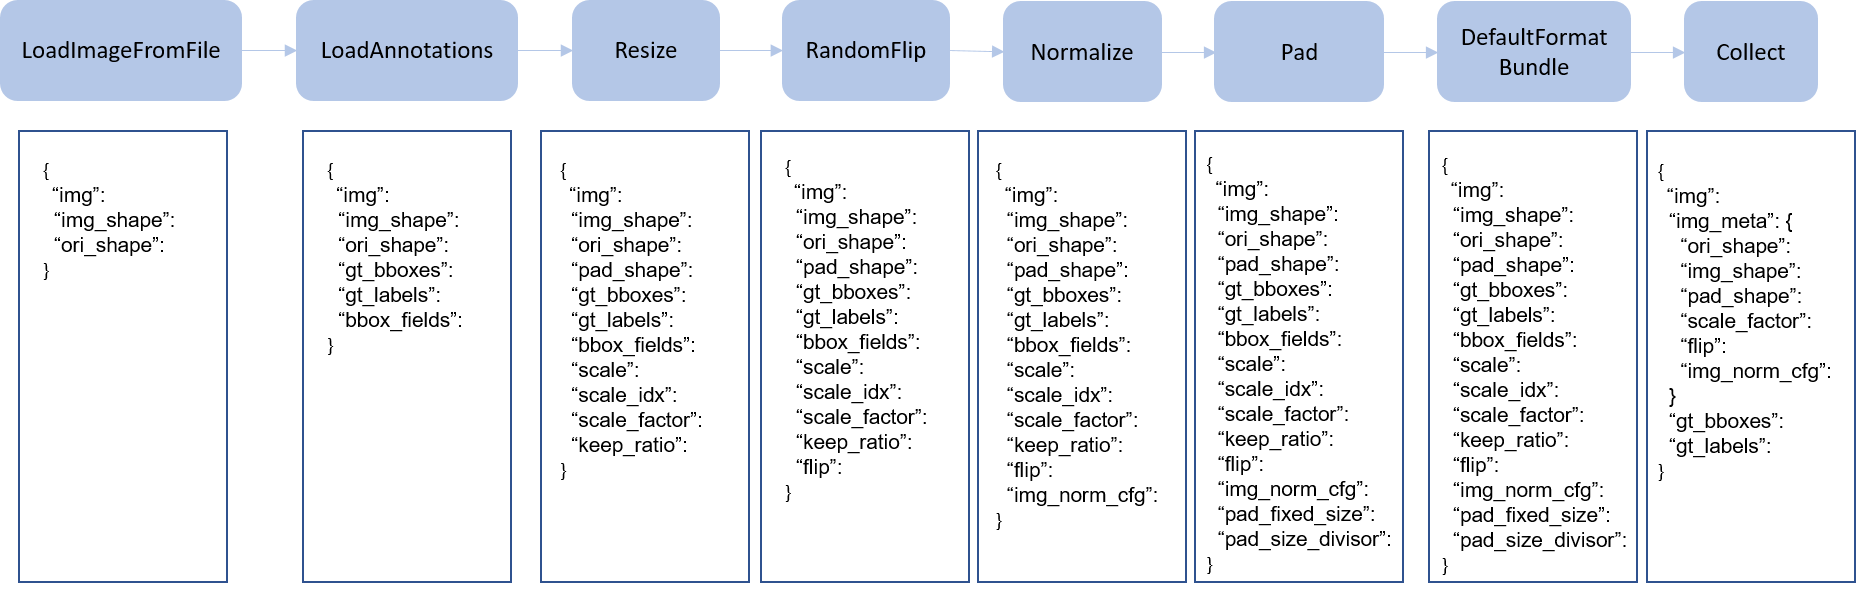
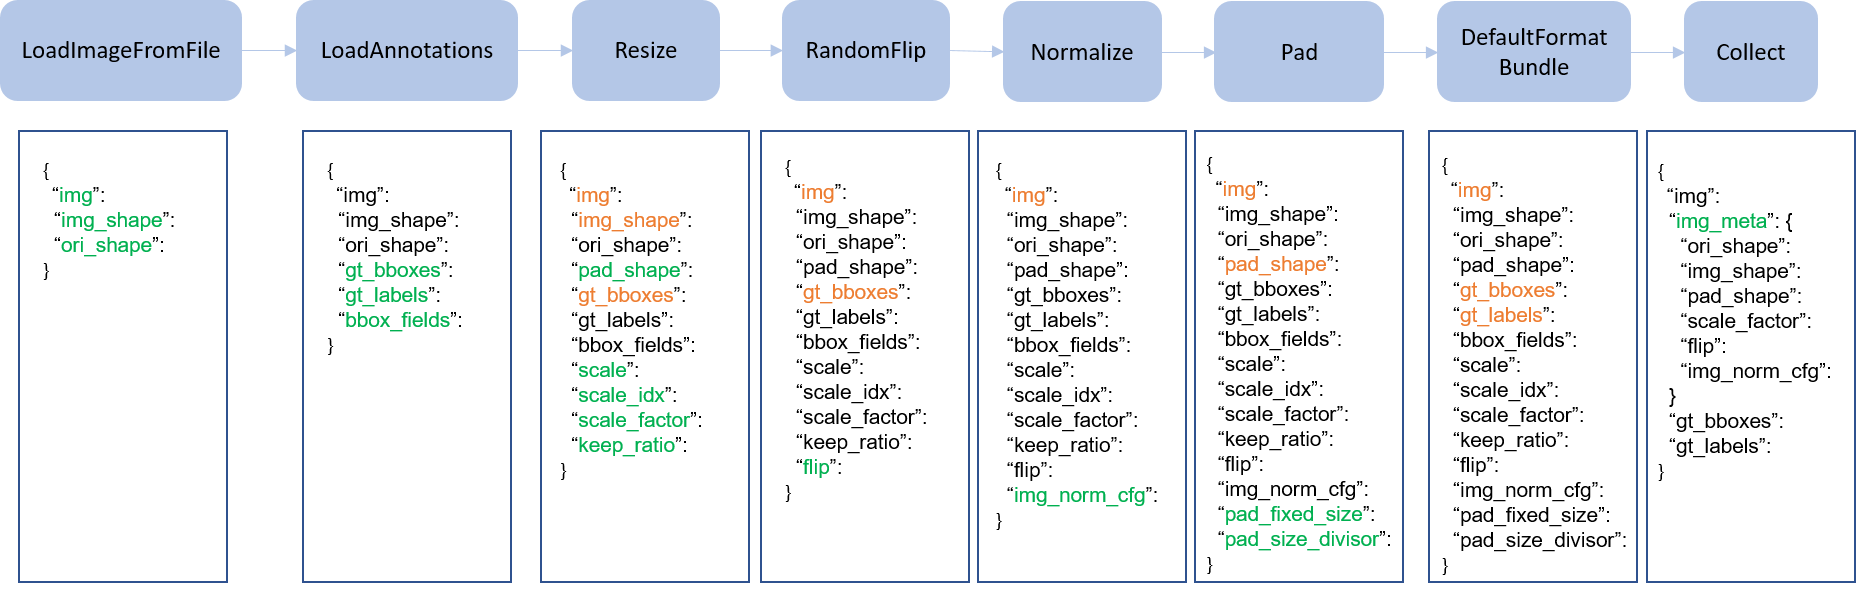
update docs

diff --git a/DATA_PIPELINE.md b/DATA_PIPELINE.md
@@ -4,7 +4,7 @@ The data preparation pipeline and the dataset is decomposed. Usually a dataset
 defines how to process the annotations and a data pipeline defines all the steps to prepare a data dict.
 A pipeline consists of a sequence of operations. Each operation takes a dict as input and also output a dict for the next transform.
 
-We present a classical pipeline in the following figure. The blue blocks are pipeline operations. With the pipeline going on, each operator can add new keys to the result dict or update the existing keys.
+We present a classical pipeline in the following figure. The blue blocks are pipeline operations. With the pipeline going on, each operator can add new keys (marked as green) to the result dict or update the existing keys (marked as orange).
 ![pipeline figure](demo/data_pipeline.png)
 
 The operations are categorized into data loading, pre-processing, formatting and test-time augmentation.
@@ -92,17 +92,23 @@ For each operation, we list the related dict fields that are added/updated/remov
 ### Formatting
 
 `ToTensor`
+- update: specified by `keys`.
 
 `ImageToTensor`
+- update: specified by `keys`.
 
 `Transpose`
+- update: specified by `keys`.
 
 `ToDataContainer`
+- update: specified by `fields`.
 
 `DefaultFormatBundle`
 - update: img, proposals, gt_bboxes, gt_bboxes_ignore, gt_labels, gt_masks, gt_semantic_seg
 
 `Collect`
+- add: img_meta (the keys of img_meta is specified by `meta_keys`)
+- remove: all other keys except for those specified by `keys`
 
 ### Test time augmentation
 
